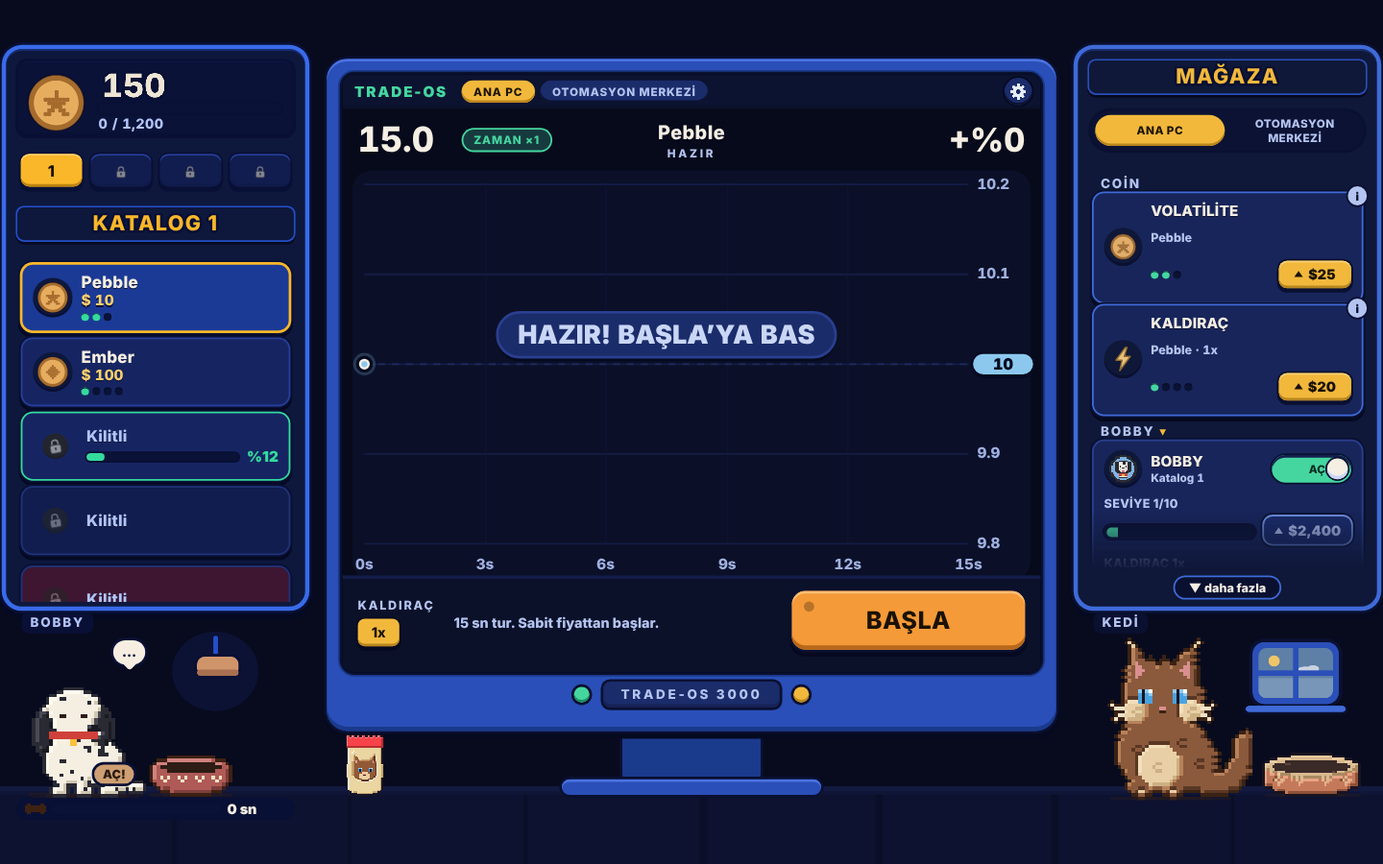
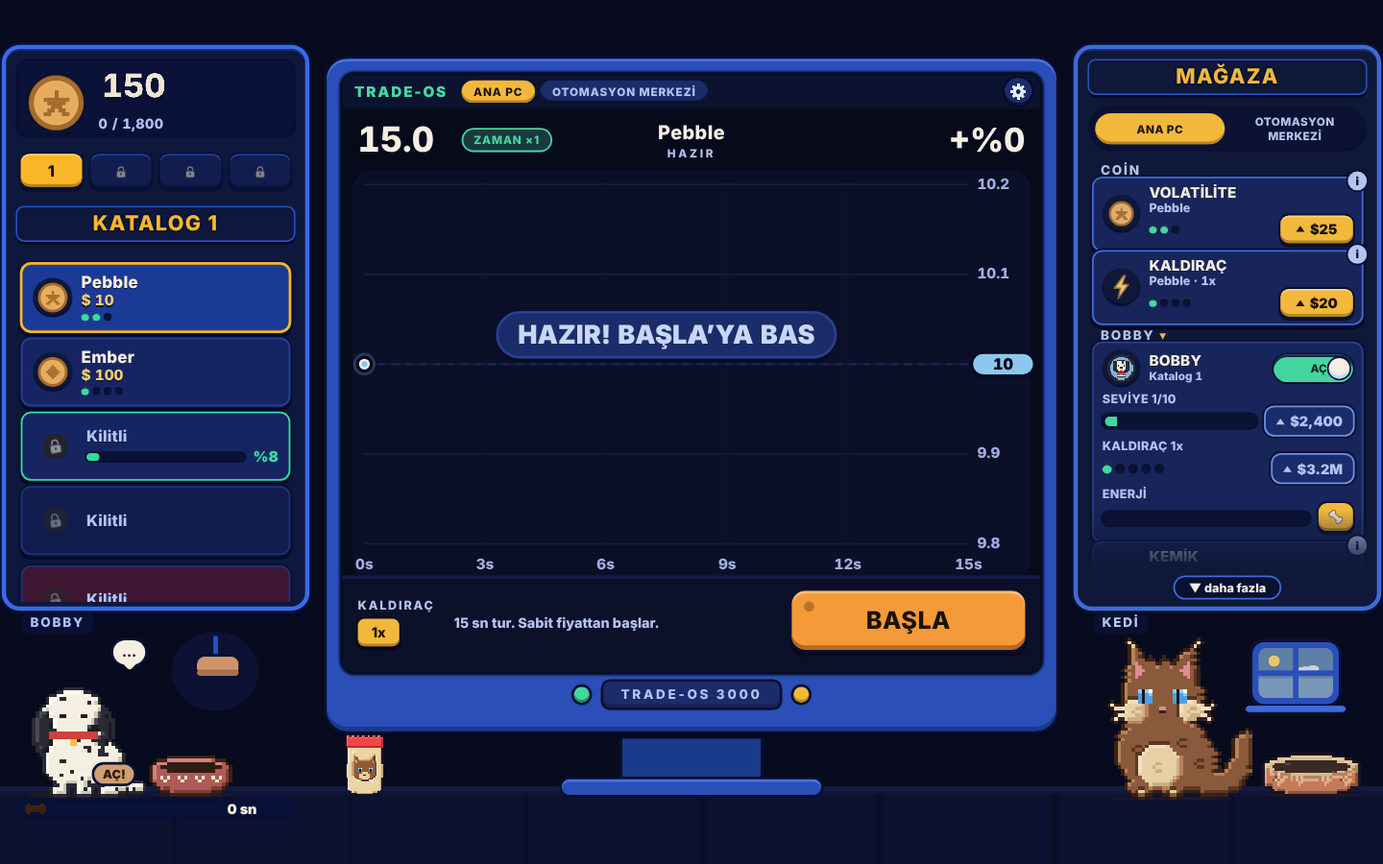
Adım 7: işlem raporu kartı, bitiş sahnesi ve ekranı, sıkı masaüstü mağaza, sabit robot grafikleri, ciddiyet 7→6; ekonomi: robot ekleme fiyatları +%8 zincir, coin açılma eşiği %50 yüksek — smoke 63/63
Claude-Session: https://claude.ai/code/session_01VDVDeJVYoXzWZHeVKGLAfX

Changed region(s): [[0.7812, 0.1244, 1.0, 0.6533]]

diff --git a/index.html b/index.html
@@ -1220,6 +1220,72 @@ html,body{background:var(--k-wall)!important}
 .mbtn.sm{background:#1B2C6B!important}.mtitle{color:#F2B83C!important}
 #scene .mp,.mp{background:#0F1838!important}
 #scene .mh,.mh{color:#F2B83C!important}
+
+/* ---------- TUR 2 / ADIM 7: masaüstü mağaza dikeyde sıkı (telefon aynen) ---------- */
+#stage:not(.tel) #shop{gap:6px!important;padding:4px 12px 64px!important}
+#stage:not(.tel) .shd,#stage:not(.tel) #right .shd{margin:6px 4px 0!important;line-height:1.1!important}
+#stage:not(.tel) #right .shd:first-child{margin-top:2px!important}
+#stage:not(.tel) .sc,#stage:not(.tel) .rc{padding:7px 10px 8px!important;margin-bottom:2px!important}
+#stage:not(.tel) #right .sc:not(.bob):not(.rcoin){row-gap:0!important}
+#stage:not(.tel) #right .sc:not(.bob):not(.rcoin) .sm .sg{margin-top:1px!important}
+#stage:not(.tel) #right .sc:not(.bob):not(.rcoin) .sb{margin-top:0!important}
+#stage:not(.tel) #right .go{margin:0!important}
+#stage:not(.tel) .sm b,#stage:not(.tel) #right .sm b{line-height:1.15!important}#stage:not(.tel) .sm .st{line-height:1.2!important}
+#stage:not(.tel) .sc.bob{gap:5px!important;padding:7px 10px 8px!important}
+#stage:not(.tel) .br,#stage:not(.tel) #right .sc.bob .br{min-height:0!important;row-gap:3px!important}
+#stage:not(.tel) .rc{margin:4px 0 6px!important}
+#stage:not(.tel) #stabs{margin:2px 12px 0!important}
+
+/* ---------- TUR 2 / ADIM 7: işlem raporu kartı, bitiş ekranı, ciddiyet 7→6 (çok az) ---------- */
+/* tur sonu: işlem raporu (kobalt çerçeve, lacivert, altın başlık, tabular rakam, nane ▲ / kehribar ▼) */
+#receipt{background:#0F1838!important;color:#F4EEE3!important;font-family:var(--k-fr)!important;font-weight:700!important;border-radius:12px!important;padding:10px 14px 12px!important;
+ -webkit-mask-image:none!important;mask-image:none!important;box-shadow:0 0 0 3px #3F6BD8,0 0 0 5px #0A1030,0 4px 0 5px #060A20!important;font-variant-numeric:tabular-nums}
+#receipt h3,#receipt h3.up,#receipt h3.dn{font-family:var(--k-fr)!important;font-weight:800!important;color:#F2B83C!important;letter-spacing:2px!important;text-align:left!important;border-bottom:1px dashed #2A3F8F!important;padding-bottom:4px;
+ text-shadow:0 2px 0 #0A1030!important}
+#receipt .rw{border-top:1px dashed #22336E!important;color:#F4EEE3!important}#receipt .rw>span:first-child{color:#B4C4F0}
+#receipt .strip{border-top:1px dashed #22336E!important;color:#B4C4F0!important}
+#receipt .up,#receipt .rw span.up{color:#5CE0B0!important}#receipt .dn,#receipt .rw span.dn{color:#E8A760!important}
+/* bitiş ekranı: tema dilinde kart */
+#endblack{background:#05081A!important}
+#endt{width:min(760px,92vw)!important;padding:26px 30px 28px;border-radius:16px;background:#0F1838;box-shadow:0 0 0 5px #3F6BD8,0 0 0 8px #0A1030,0 8px 0 8px #060A20}
+#endt h1{font:800 40px/1.15 var(--k-fr)!important;color:#F2B83C!important;text-shadow:0 3px 0 #0A1030,2px 0 0 #0A1030,-2px 0 0 #0A1030,0 -2px 0 #0A1030!important;margin:0 0 12px!important}
+#endt p{font:700 19px/1.4 var(--k-fr)!important;color:#B4C4F0!important;margin:0 0 16px!important}
+#endstats{display:grid;grid-template-columns:1fr 1fr;gap:8px;margin:0 0 14px;text-align:left}
+#endstats .es{display:flex;justify-content:space-between;align-items:center;gap:10px;padding:8px 12px;border-radius:10px;background:#18255A;box-shadow:0 0 0 2px #2A3F8F;font-variant-numeric:tabular-nums}
+#endstats .es span{font:700 15px var(--k-fr);color:#B4C4F0}#endstats .es b{font:800 18px var(--k-fr);color:#F4EEE3;white-space:nowrap}
+#endstats .es:last-child:nth-child(odd){grid-column:1/-1}
+#endt small{font:700 15px var(--k-fr)!important;color:#9FB0E0!important;margin:0 0 16px!important}
+#endt .pbtn,#again{border-radius:14px!important;background:#F59A38!important;color:#1A1204!important;text-shadow:none!important;font:800 24px var(--k-fr)!important;padding:12px 30px!important;
+ box-shadow:0 0 0 3px #0A1030,0 5px 0 3px #060A20,inset 0 3px 0 #F8BD75,inset 0 -5px 0 #B8681A!important}
+html.rot #endt{width:min(760px,92vh)!important}
+/* ciddiyet 7→6 (fark zor edilsin): başlık konturu 3→2 px, alt basamak 1 px az, birkaç köşe 2 px küçük, ikincil yazı 700 */
+#stage:not(.k6) .sign,#stage:not(.k6) #sign,#stage:not(.k6) #msign,#stage:not(.k6) #robsec .rsign{text-shadow:0 2px 0 #0A1030,2px 0 0 #0A1030,-2px 0 0 #0A1030,0 -2px 0 #0A1030!important}
+#stage:not(.tel) .tk,#stage:not(.tel) .sc,#stage:not(.tel) .rc{border-radius:10px!important}
+#stage:not(.tel) #left::before,#stage:not(.tel) #right::before{border-radius:16px!important}
+#stage:not(.k6) .tk,#stage:not(.k6) .sc,#stage:not(.k6) .rc{box-shadow:0 0 0 2px #2A3F8F,0 0 0 4px #0A1030,0 3px 0 4px #060A20!important}
+#stage:not(.k6) .tk.on,#stage:not(.k6) .tk.boss.on{box-shadow:0 0 0 3px #F2B83C,0 0 0 5px #0A1030,0 3px 0 5px #060A20!important}
+#stage:not(.k6) .tk.lk,#stage:not(.k6) .sc.lk{box-shadow:0 0 0 2px #22336E,0 0 0 4px #0A1030,0 3px 0 4px #060A20!important}
+#stage:not(.k6) .tk.lk.nx{box-shadow:0 0 0 2px #45D6A0,0 0 0 4px #0A1030,0 3px 0 4px #060A20!important}
+#stage:not(.k6) .sc.can{box-shadow:0 0 0 2px #3F6BD8,0 0 0 4px #0A1030,0 3px 0 4px #060A20!important}
+#stage:not(.tel) :is(.tn .num,.sm .st,#cnx,.br small,#lcdS,#hPs,#note,.shd){font-weight:700!important}
+
+/* ---- Ortak tavsiye 7 ---- */
+#receipt h3.dn{color:#F4EEE3!important}
+#receipt .rnet{font:800 32px/1.15 var(--k-fr);font-variant-numeric:tabular-nums;margin:2px 0 4px;text-shadow:0 2px 0 #0A1030}
+#receipt .rnet.up{color:#5CE0B0}#receipt .rnet.dn{color:#E8A760;font-size:26px}
+#stage:not(.tel) #receipt h3{font-size:24px!important}#stage:not(.tel) #receipt{font-size:16px!important}#stage:not(.tel) #receipt .strip{font-size:14px!important}
+#stage:not(.tel) #rcpt{height:280px!important}#stage.tel #rcpt{height:440px!important}#stage.tel #receipt .rnet{font-size:44px}
+#receipt.out{animation:k7in .4s ease-out forwards!important}#receipt:not(.out){animation:none!important}
+@keyframes k7in{from{transform:translateY(14px);opacity:0}to{transform:translateX(4px);opacity:1}}
+body.rm #receipt.out{animation:none!important;transform:translateX(4px)!important}
+#fl2.on{animation:none!important;opacity:0!important}
+/* bitiş: %85 örtü, 600 ms yumuşak belirme, tek altın düğme */
+#endblack{background:#080B1E!important}#endblack.on{opacity:.85!important}
+#endt{transition:opacity .6s ease-out!important}
+#endstats .es b{font-size:24px!important}#endstats .es span{font-size:16px!important}
+#endtime{display:none!important}
+#endstats .es b.up{color:#5CE0B0}#endstats .es b.dn{color:#E8A760}
+#endt .pbtn,#again{background:#F2B83C!important;color:#1A1204!important;min-height:52px;box-shadow:0 0 0 3px #0A1030,0 4px 0 3px #060A20,inset 0 3px 0 #F8D27A,inset 0 -4px 0 #B8861F!important}
 </style><style>/* === TELEFON: hep yatay oyun (dikeyde 90° döndürülür), sayfa kaymaz, çift dokunuşta büyümez === */
 html,body{position:fixed;inset:0;width:100%;height:100%;overflow:hidden;margin:0;overscroll-behavior:none;-webkit-user-select:none;user-select:none;-webkit-touch-callout:none;-webkit-tap-highlight-color:transparent;-webkit-text-size-adjust:100%}
 *{touch-action:manipulation}canvas,img{-webkit-user-drag:none}#list,#shop,.modal .mp,#mb{touch-action:pan-x pan-y;-webkit-overflow-scrolling:touch}
@@ -1254,7 +1320,7 @@ html.rot #mwood{width:min(55vh,880px)}html.rot #endt{width:min(900px,92vh)}html.
   <div id="catp" class="botp"><canvas class="wall" id="wallR"></canvas><div class="shelf"></div><span class="cap">KEDİ</span><div id="catw" class="obj2"><canvas id="catc"></canvas></div><div id="bowl"><canvas id="bowlc"></canvas></div><canvas id="pour"></canvas><div id="dbar" class="sg hp"></div><div id="purr"></div></div>
  </aside>
 </div>
-<div class="end" id="end"><canvas id="fx"></canvas><div id="endblack"></div><div id="endt"><h1>Tebrikler!<br>Bütün sokak hayvanlarını besledin!</h1><p id="endmsg"></p><small id="endtime"></small><button class="pbtn ac" id="again">Yeniden Oyna</button></div></div>
+<div class="end" id="end"><canvas id="fx"></canvas><div id="endblack"></div><div id="endt"><h1>Tebrikler!<br>Bütün sokak hayvanlarını besledin!</h1><p id="endmsg"></p><div id="endstats"></div><small id="endtime"></small><button class="pbtn ac" id="again">Yeniden Oyna</button></div></div>
 <div id="menu" class="on"><div id="mlogo"></div><div id="mwood"><div id="mpanel"></div></div><div id="mver">v1.0</div></div>
 <div id="sil"><canvas id="silc"></canvas><div class="sb"><b></b><small></small><i></i></div></div>
 <div id="pop"><div class="pin"><svg class="p20" viewBox="-100 -100 200 200" shape-rendering="crispEdges"></svg><img class="pic" alt=""><div class="pt"></div></div></div>
@@ -1366,7 +1432,7 @@ RC.push(Array.from({length:n},(_,i)=>4n*(i===n-1?COINS[19].p0*BigInt(Math.pow(2,
 const rlcost=(k,rk)=>(k===0?2n:1n)*(k===0&&rk===4?P('15M'):COINS[k*5+4].p0*BigInt(Math.pow(2,rk)*2)*2n*(k===2?8n:k===3?2n:1n));   /* v49: kat.1 Bobby kaldıraç x2 */
 /* v14 ürünleri: Bilgisayar Sv.2 (2. katalog ortası), Süper PC (3. katalog başı), robotlar */
 const PC2P=RMP(P('1.5M')),SPCP=P('500B');   /* Otomasyon (Sv.3) = 2. katalog boss fiyatı: boss'a başlarken alınabilir */
-const RMAX=4,RSLOT=[COINS[10].p,COINS[14].p,COINS[15].p,COINS[16].p].map(v=>v*6n),RACCC=(()=>{const F0=COINS[19].p*1600n*16n,a=Number(COINS[10].p)*5,z=Number(F0)/3,r=Math.pow(z/a,1/8);return Array.from({length:9},(_,k)=>(k===8?F0/3n:sig2(BigInt(Math.round(a*Math.pow(r,k)))))*4n)})(),RLEVC=[80n,40n,20n,10n,5n].map(d=>COINS[19].p*1600n*16n/d*4n),RBS=1,RD=.37,RF=.45;   /* v35 simülasyonla: robot 4 = 2Qi; doğruluk x6/seviye; kaldıraç 2x,4x,8x,16x fiyatı her seviyede 2 kat */
+const RMAX=4,RSLOT=(()=>{let r=COINS[10].p*6n;const a=[r];for(let i=1;i<4;i++){r=r*108n/100n;a.push(sig2(r))}return a})(),RACCC=(()=>{const F0=COINS[19].p*1600n*16n,a=Number(COINS[10].p)*5,z=Number(F0)/3,r=Math.pow(z/a,1/8);return Array.from({length:9},(_,k)=>(k===8?F0/3n:sig2(BigInt(Math.round(a*Math.pow(r,k)))))*4n)})(),RLEVC=[80n,40n,20n,10n,5n].map(d=>COINS[19].p*1600n*16n/d*4n),RBS=1,RD=.37,RF=.45;   /* v35 simülasyonla: robot 4 = 2Qi; doğruluk x6/seviye; kaldıraç 2x,4x,8x,16x fiyatı her seviyede 2 kat */
 /* robot zamanlaması: doğruluk Lv1 → Lv20 arasında gecikme %30 → %10, yakalanan düşüş oranı %55 → %90 */
 const rD=a=>.30-.20*(a-1)/9,rF=a=>.55+.35*(a-1)/9;
 const RERR=[54,52,51,48,43.5,40,34.5,30,27,22];const raErr=a=>RERR[Math.max(1,Math.min(10,a))-1];   /* v42: 10 seviye sapma tablosu */
@@ -1497,7 +1563,7 @@ function bottleCanvas(sc){const g=new Grid(14,30);g.rect(3,9,8,19,'b');g.rect(5,
 function bowlCanvas(wl,sc){const g=new Grid(32,16);g.ell(16,9,14,6,'c');g.rect(2,7,28,5,'c');g.ell(16,6,13,3.5,'k');if(wl>0)g.ell(16,6+(1-wl)*2,12*(.55+.45*wl),Math.max(1,3.3*wl),'b');g.rect(8,13,16,2,'c');return render(g,sc,{shadow:{x:16,y:14,rx:14,ry:1}})}
 function boneBowlCanvas(sc){const g=new Grid(22,14);g.ell(11,9,9,4,'c');g.rect(2,7,18,4,'c');g.ell(11,6,8,2.2,'k');g.from(["ww....ww",".wwwwww."],7,2);g.from(["ww....ww","wwwwwwww","ww....ww"],5,4);return render(g,sc,{shadow:{x:11,y:13,rx:9,ry:1}})}
 function foodCanvas(sc){const g=new Grid(18,20);g.rect(2,3,14,15,'c');g.rect(2,7,14,5,'g');g.rect(1,2,16,3,'s');g.rect(1,17,16,2,'s');g.from(["r.r","rrr",".r."],7,8);return render(g,sc,{shadow:{x:9,y:19,rx:8,ry:1}})}
-function heartCanvas(sc){const g=new Grid(10,9);g.from([".rr..rr.","rrrrrrrr","rrrrrrrr",".rrrrrr.","..rrrr..","...rr..."],1,1);return render(g,sc)}
+function heartCanvas(sc){const c=document.createElement('canvas'),k=Math.max(1,sc);c.width=6*k;c.height=5*k;const x=c.getContext('2d');[['#C47A5A',0,2],['#E8A486',2,0],['#8E5238',3,3],['#C47A5A',4,1]].forEach(([f,a,b])=>{x.fillStyle=f;x.fillRect(a*k,b*k,2*k,2*k)});return c}   /* Tur 2/Adım 7: kalp yok — yerken sıçrayan mama kırıntısı */
 function domeCanvas(m,sc){const g=new Grid(40,24);g.ell(20,14,15,11,m);g.rect(0,14,40,10,null);g.px(13,6,'#F4EBDD');g.px(14,5,'#F4EBDD');g.px(15,5,'#F4EBDD');return render(g,sc)}
 function baseCanvas(sc){const g=new Grid(40,12);g.rect(1,2,38,8,'s');g.px(4,5,'#F4EBDD');g.px(35,5,'#F4EBDD');g.rect(6,4,28,1,'#2B3A55');return render(g,sc,{shadow:{x:20,y:11,rx:18,ry:1}})}
 function printerCanvas(sc){const g=new Grid(50,16);g.rect(1,2,48,12,'s');g.rect(6,4,38,2,'k');g.px(44,9,'e');g.px(45,9,'e');g.px(4,9,'#F4EBDD');g.px(5,9,'#F4EBDD');return render(g,sc,{shadow:{x:25,y:15,rx:23,ry:1}})}
@@ -1736,7 +1802,7 @@ const afford=v=>S.cash>=v,pctOf=v=>v>0n?Math.min(100,Number(S.cash*100n/v)):100;
 function logU(x,cost){S.hist.unshift({k:'u',x,cost});if(S.hist.length>60)S.hist.pop()}
 function pay(v,txt){if(S.cash<v)return false;S.cash-=v;S.lc-=v;if(txt)logU(txt,v);return true}
 /* v28: katalog geçiş eşikleri (x100): bir coin, toplam kazanç >= eşik x fiyat olunca açılır */
-const UNLK=[100n,250n,220n,600n];   /* v49: coin, fiyatının %150'si kadar NET kâr edilince açılır */   /* kalibre: her katalog ~33 dk */
+const UNLK=[150n,375n,330n,900n];   /* v49: coin, fiyatının %150'si kadar NET kâr edilince açılır */   /* kullanıcı kararı 2026-11-18: eşikler eskisinin %150'si (eski 100/250/220/600) */
 const FRV=51800n;   /* final kartı toplam kazanç >= 518 x final fiyatı olunca görünür (x100) */
 function checkOpen(){syncTot();let ch=0;COINS.forEach(c=>{if(!S.open[c.i]&&S.tot*100n>=c.p*UNLK[c.cat]){spotCoin(c.i);S.open[c.i]=1;ch=1;S.hist.unshift({k:'u',x:c.n+' coini açıldı',cost:0n});const nc=!S.co[c.cat];
  if(nc){S.co[c.cat]=1;G.unl=c.cat;setTimeout(()=>{G.unl=-1;SD='';renderSide()},1500)}
@@ -1930,7 +1996,13 @@ function finishDrink(){const d=G.drink;if(!d)return;G.drink=null;cancelAnimation
 /* ---------- FİNAL SAHNESİ: çuval boşalır, mama yayılır, hayvanlar gelir, bilgisayar düşer, tebrik ---------- */
 const FX={raf:0,done:false};
 function endGame(){if(S.over)return;S.over=1;S.food=0;clearTimeout(G.tm);clearTimeout(G.at);cancelAnimationFrame(G.raf);if(G.drink)cancelDrink();G.st='over';save();playFinal(false);ui()}
-function finalText(){$('#endmsg').textContent=FINALMSG;const m=Math.round((S.ptm||0)/60000);$('#endtime').textContent=m>=1?'Toplam oyun süresi: '+(m>=60?Math.floor(m/60)+' sa '+(m%60)+' dk':m+' dk'):''}
+function finalText(){$('#endmsg').textContent=FINALMSG;const m=Math.round((S.ptm||0)/60000);$('#endtime').textContent=m>=1?'Toplam oyun süresi: '+(m>=60?Math.floor(m/60)+' sa '+(m%60)+' dk':m+' dk'):'';
+ /* Tur 2/Adım 7: bitiş istatistikleri — yalnız kayıtta zaten olan veriler (yeni alan yok) */
+ let best=null;(S.hist||[]).forEach(h=>{if(h&&h.k==='t'&&typeof h.pl==='bigint'&&(!best||h.pl>best.pl))best=h});
+ const tr=(S.hist||[]).filter(h=>h&&h.k==='t'&&typeof h.pl==='bigint'),sum=tr.reduce((a,h)=>a+h.pl,0n);
+ const rows=[['Oyun süresi',m>=60?Math.floor(m/60)+' sa '+(m%60)+' dk':Math.max(1,m)+' dk',''],['Son işlemler',String(tr.length),''],['Son işlemlerde kâr',(sum>=0n?'▲ +$':'▼ −$')+cp(sum<0n?-sum:sum),sum>=0n?'up':'dn'],['Açılan coin',S.open.filter(Boolean).length+'/'+COINS.length,'']];
+ if(best&&best.pl>0n)rows.push(['En iyi işlem',best.c+' · +$'+cp(best.pl)+(best.b?' ('+pcs(Number(best.pl)/Number(best.b))+')':''),'up']);
+ const st=$('#endstats');if(st)st.innerHTML=rows.map(r=>`<div class="es"><span>${r[0]}</span><b class="${r[2]}">${r[1]}</b></div>`).join('')}
 function showEndText(instant){const b=$('#endblack'),t=$('#endt');finalText();b.style.transition=instant?'none':'';t.style.transition=instant?'none':'';b.classList.add('on');t.classList.add('on');FX.done=true;if(!S.done){S.done=1;save()}}
 function clearFx(){cancelAnimationFrame(FX.raf);$('#scene').classList.remove('shake');const cv=$('#fx');cv.getContext('2d').clearRect(0,0,cv.width,cv.height)}
 /* =====================================================================
@@ -1980,6 +2052,7 @@ const end=$('#end'),cv=$('#fx'),x=cv.getContext('2d');clearFx();FX.done=false;FX
  const loop=now=>{FX.raf=requestAnimationFrame(loop);const dt=Math.min(.033,(now-last)/1000);last=now;simT+=dt;const ts=simT,T0=simT*1000;x.clearRect(0,0,W,H);   /* zaman = fizik zamanı (yavaş cihazda da oran korunur) */
   if(window.__finGo)dep=Math.max(dep,GOAL*TOTC);   /* test kısayolu */
   window.__fin={dep,TOTC,ts};
+  {const mid=(c0+c1)>>1,fl=over?1:Math.max(0,Math.min(1,(inner-hm[mid])/Math.max(1,inner-fillY)));setBowl(fl)}   /* kap gerçekten dolar */
   if(!doneT){
    /* çuval: taşmaya kadar kabın üstünde sabit; taşınca doğrudan imleç konumunda */
    if(over&&(PX||PY)){sack.x=PX;sack.y=PY}
@@ -1996,25 +2069,25 @@ const end=$('#end'),cv=$('#fx'),x=cv.getContext('2d');clearFx();FX.done=false;FX
   /* taşma başlar başlamaz Bobby gelir, taşan mamayı yer */
   if(over&&!bob){const D=dogCanvas2({},FK(4)),dc=$('#dogc'),home=S.rob&&dc&&dc.style.display!=='none'&&dc.offsetParent;const sx=home?dc.getBoundingClientRect().left:-D.width;dc.style.visibility='hidden';bob={x:sx,tx:Math.max(40,CAT.x-D.width-40),v:200,eatT:0,w:D.width}}
   if(bob){const dx=bob.tx-bob.x;if(Math.abs(dx)>4){bob.x+=Math.sign(dx)*bob.v*dt;bob.e=false}else{bob.e=true;if(Math.random()<dt*.3)bob.tx=Math.max(30,Math.min(CAT.x-bob.w-20,CAT.x-bob.w-60+(Math.random()-.5)*260))}   /* Bobby kedinin solunda kalır */
-   const fr=bob.e?Math.floor(now/300)%2:0,im=dogCanvas2(bob.e?{head:'eat',tail:Math.floor(now/200)%3}:{tail:Math.floor(now/150)%3},FK(4));x.drawImage(im,Math.round(bob.x),Math.round(walkY(bob.x+im.width/2,FK(4),im.height)));
+   const fr=bob.e&&!S.set.rm?Math.floor(now/650)%2:0,im=dogCanvas2(bob.e?{head:'eat',tail:Math.floor(now/200)%3}:{tail:Math.floor(now/150)%3},FK(4));x.drawImage(im,Math.round(bob.x),Math.round(walkY(bob.x+im.width/2,FK(4),im.height)));
    if(bob.e&&Math.random()<dt*.6)HT.push({x:bob.x+im.width/2,y:walkY(bob.x+im.width/2,FK(4),im.height)-6,v:40,l:1})}
   /* bir süre sonra diğer hayvanlar */
   if(over&&now-overT>6000&&animals.length<34){sa+=dt*(.8+(now-overT-6000)/6000);while(sa>=1&&animals.length<34){sa--;const side=Math.random()<.5,sc=FK(2+Math.floor(Math.random()*2));animals.push({kind:Math.random()<.5?'dog':'cat',fur:Math.floor(Math.random()*6),sc,x:side?-120:W+120,tx:W*.05+Math.random()*W*.9,v:140+Math.random()*140,ph:Math.random()*9,fol:Math.random()<.4})}}
   for(const a2 of animals){if((a2.fol||Math.abs(a2.x-sack.x)<360)&&Math.random()<dt*.8)a2.tx=Math.max(W*.03,Math.min(W*.97,sack.x+(Math.random()<.5?-1:1)*(50+Math.random()*140)));   /* v42: bir kısmı ve yakındakiler döküm yerine gelir */
    const dx=a2.tx-a2.x;if(Math.abs(dx)>6){a2.x+=Math.sign(dx)*a2.v*dt;a2.dir=Math.sign(dx);a2.eat=false}else{a2.eat=true;if(Math.random()<dt*.15)a2.tx=Math.max(W*.04,Math.min(W*.96,a2.x+(Math.random()-.5)*240))}
-   const fr=a2.eat?Math.floor(now/260+a2.ph)%2:Math.floor(now/110+a2.ph)%2,im=spr(a2.kind,a2.fur,fr,a2.sc),sy=surfAt(a2.x)-18*a2.sc+8+(a2.eat&&fr?a2.sc:0),sw=im.width;
+   const fr=S.set.rm?0:a2.eat?Math.floor(now/650+a2.ph)%2:Math.floor(now/110+a2.ph)%2,im=spr(a2.kind,a2.fur,fr,a2.sc),sy=surfAt(a2.x)-18*a2.sc+8+(a2.eat&&fr?a2.sc:0),sw=im.width;
    if(a2.eat&&Math.random()<dt*.3)HT.push({x:a2.x,y:sy-6,v:40+Math.random()*30,l:1});
    x.save();if((a2.dir||1)<0){x.translate(a2.x+sw/2,0);x.scale(-1,1);x.drawImage(im,0,sy)}else x.drawImage(im,a2.x-sw/2,sy);x.restore()}
   for(const h of HT){h.y-=h.v*dt;h.l-=dt*.5;x.globalAlpha=Math.max(0,h.l);x.drawImage(HC,h.x|0,h.y|0)}x.globalAlpha=1;for(let i=HT.length-1;i>=0;i--)if(HT[i].l<=0)HT.splice(i,1);
   /* bizim kedi: panelindeki yerde ve boyutta (x4); mama yükseldikçe mamanın üstüne çıkar, mama gelince yer */
-  {const C0=catCanvas2({},FK(4)),cxm=CAT.x+C0.width/2,sf=surfAt(cxm),onF=sf<CAT.base-6,eat=onF&&!doneT,fr=Math.floor(now/320)%2;
+  {const C0=catCanvas2({},FK(4)),cxm=CAT.x+C0.width/2,sf=surfAt(cxm),onF=sf<CAT.base-6,eat=onF&&!doneT,fr=S.set.rm?0:Math.floor(now/650)%2;
    const ci=catCanvas2(eat?{eat:fr?2:1,tail:Math.floor(now/300)%4}:{tail:Math.floor(now/400)%4,eye:Math.floor(now/1700)%9===0?'c':''},FK(4));
    CAT.y=Math.round(Math.min(CAT.base,sf+10)-ci.height);x.drawImage(ci,Math.round(CAT.x),CAT.y);CAT.w=ci.width;CAT.h=ci.height;
    if(eat&&Math.random()<dt*.5)HT.push({x:cxm,y:CAT.y,v:40,l:1})}
   /* %40 doldu: döküm biter. Odak SİLUET şeklinde: konuşan hayvan ve balonu dışında her yer kararır.
      Önce kedi teşekkür eder, sonra sıra Bobby'ye geçer; sonra oyun biter. */
   if(doneT){end.style.cursor='';const t=(now-doneT),catTurn=t<4200||!bob;
-   const bubble=(msg,cx,topY)=>{x.font=FT+'px "Pixelify Sans", monospace';const pad=Math.round(FT*.65),tw=Math.ceil(x.measureText(msg).width),bw=tw+pad*2,bh=Math.round(FT*2.1),bx2=Math.round(Math.min(W-bw-10,Math.max(10,cx-bw/2))),by2=Math.max(8,topY-bh-22);return {msg,pad,bw,bh,bx:bx2,by:by2,ax:Math.round(cx)}};
+   const bubble=(msg,cx,topY)=>{x.font='700 '+FT+'px '+KF;const pad=Math.round(FT*.65),tw=Math.ceil(x.measureText(msg).width),bw=tw+pad*2,bh=Math.round(FT*2.1),bx2=Math.round(Math.min(W-bw-10,Math.max(10,cx-bw/2))),by2=Math.max(8,topY-bh-22);return {msg,pad,bw,bh,bx:bx2,by:by2,ax:Math.round(cx)}};
    let who,img,ix,iy,B;
    if(catTurn){img=catCanvas2({tail:Math.floor(now/400)%4,eye:Math.floor(now/1700)%9===0?'c':''},FK(4));ix=Math.round(CAT.x);iy=CAT.y;B=bubble(L('Teşekkürler! Bütün sokak hayvanlarını doyurdun.'),CAT.x+CAT.w/2,CAT.y)}
    else{img=dogCanvas2({tail:Math.floor(now/150)%3,tongue:Math.floor(now/500)%2},FK(4));ix=Math.round(bob.x);iy=Math.round(walkY(bob.x+img.width/2,FK(4),img.height));B=bubble(L('Hav hav! Karnımız tok, sağ ol!'),bob.x+img.width/2,iy)}
@@ -2022,8 +2095,9 @@ const end=$('#end'),cv=$('#fx'),x=cv.getContext('2d');clearFx();FX.done=false;FX
    if(!FX.ov){FX.ov=document.createElement('canvas')}const ov=FX.ov;if(ov.width!==W||ov.height!==H){ov.width=W;ov.height=H}const o=ov.getContext('2d');o.globalCompositeOperation='source-over';o.clearRect(0,0,W,H);o.fillStyle='rgba(10,8,16,'+k+')';o.fillRect(0,0,W,H);
    o.globalCompositeOperation='destination-out';o.imageSmoothingEnabled=false;o.drawImage(img,ix,iy);o.fillRect(B.bx-3,B.by-3,B.bw+6,B.bh+6);for(let q=0;q<5;q++)o.fillRect(B.ax-5+q,B.by+B.bh+q*3,10-2*q,3);o.globalCompositeOperation='source-over';
    x.drawImage(ov,0,0);x.drawImage(img,ix,iy);
-   x.fillStyle='#3a2214';x.fillRect(B.bx-3,B.by-3,B.bw+6,B.bh+6);x.fillStyle='#fff4dc';x.fillRect(B.bx,B.by,B.bw,B.bh);x.fillStyle='#3a2214';for(let q=0;q<5;q++)x.fillRect(B.ax-5+q,B.by+B.bh+q*3,10-2*q,3);x.fillStyle='#fff4dc';for(let q=0;q<4;q++)x.fillRect(B.ax-3+q,B.by+B.bh+q*3,6-2*q,3);
-   x.fillStyle='#3a2214';x.textBaseline='middle';x.fillText(B.msg,B.bx+B.pad,B.by+B.bh/2+1);
+   /* Tur 2/Adım 7: konuşma balonu tema dilinde (lacivert, kobalt kenar, krem yazı) */
+   rr(x,B.bx-3,B.by-3,B.bw+6,B.bh+6,12);x.fillStyle='#3F6BD8';x.fill();rr(x,B.bx,B.by,B.bw,B.bh,10);x.fillStyle='#0F1838';x.fill();x.fillStyle='#3F6BD8';x.beginPath();x.moveTo(B.ax-9,B.by+B.bh);x.lineTo(B.ax+9,B.by+B.bh);x.lineTo(B.ax,B.by+B.bh+14);x.fill();x.fillStyle='#0F1838';x.beginPath();x.moveTo(B.ax-5,B.by+B.bh-1);x.lineTo(B.ax+5,B.by+B.bh-1);x.lineTo(B.ax,B.by+B.bh+8);x.fill();
+   x.fillStyle='#F4EEE3';x.textBaseline='middle';x.fillText(B.msg,B.bx+B.pad,B.by+B.bh/2+1);
    if(t>(bob?8600:4400)&&!fade){fade=true;FX.pour=false;$('#mon').classList.add('fall');$('#endblack').classList.add('on')}
    if(t>(bob?10600:6400)&&!FX.done){$('#screen').classList.add('off');showEndText(false)}
    if(t>(bob?12100:7900))cancelAnimationFrame(FX.raf)}};
@@ -2036,7 +2110,7 @@ function resetAll(){$('#catw').style.visibility='';$('#dogc').style.visibility='
 /* ---------- tur sonu paneli (ekranın sağ kenarından kayar), coin parçacıkları, zarar flaşı ---------- */
 let RT=0;
 function showReceipt(c,ch,tot){const r=$('#receipt'),n=G.trades+G.bn,ps=x=>x>=0n?'up':'dn';
- r.innerHTML=`<h3 class="${ps(tot)}">${n?(tot>=0n?'KÂR!':'ZARAR'):'TUR BİTTİ'}</h3>
+ r.innerHTML=`<h3 class="${ps(tot)}">${n?(tot>=0n?'KÂR!':'ZARAR'):'TUR BİTTİ'}</h3>${n?`<div class="rnet ${ps(tot)}">${tot>=0n?'▲ +$':'▼ −$'}${cp(tot<0n?-tot:tot)}</div>`:''}
  <div class="rw"><span>Açılış</span><span>$${cp(c.p)}</span></div><div class="rw"><span>Son</span><span>$${cp(G.curU)}</span></div>
  <div class="rw"><span>Değişim</span><span class="${ch>=0?'up':'dn'}">${pcs(ch)}</span></div>
  <div class="strip"><span>Sen</span><span class="${ps(G.rp)}">${sg(G.rp)}</span><span>· Bobby</span><span class="${ps(G.bpl)}">${sg(G.bpl)}</span><span>· Nakit</span><span>$${cp(S.cash)}</span></div>`;
@@ -2117,6 +2191,7 @@ function buildGrid(){const g=$('#agrid');if(g.children.length===RMAX)return;g.in
 $('#agrid').addEventListener('click',e=>{const tl=e.target.closest('[data-tile]');if(!tl)return;const i=+tl.dataset.tile,n=S.rb.length;
  if(i===n){robAct('radd',tl);save();ui()}else if(i<n){const c=$('#rc'+i);if(c){const box=$('#shop'),r=c.getBoundingClientRect(),b=box.getBoundingClientRect();box.scrollTop+=(r.top-b.top)*box.offsetHeight/b.height-10;c.classList.remove('flash');void c.offsetWidth;c.classList.add('flash')}}});
 const RSPR={};const rSpr=(i,fr)=>RSPR[i+'_'+fr]||(RSPR[i+'_'+fr]=render(robotGrid(i,fr),1));
+const TY=[];
 function drawTile(i,now){const cv=$('#tc'+i);if(!cv)return;const tile=cv.parentNode,n=S.rb.length;tile.className='tile'+(i===n?' add':i>n?' lock':'');
  const d=window.devicePixelRatio||1,r=cv.getBoundingClientRect(),W=tile.offsetWidth||200,H=tile.offsetHeight||190,w=Math.max(8,Math.round(r.width*d)),hh=Math.max(8,Math.round(r.height*d));if(cv.width!==w||cv.height!==hh){cv.width=w;cv.height=hh}
  const x=cv.getContext('2d'),k=cv.width/W;x.setTransform(k,0,0,k,0,0);x.fillStyle='#0B1028';x.fillRect(0,0,W,H);x.textBaseline='middle';x.textAlign='center';
@@ -2126,10 +2201,12 @@ function drawTile(i,now){const cv=$('#tc'+i);if(!cv)return;const tile=cv.parentN
  x.fillStyle='#F4EEE3';x.font='900 '+F1+'px '+KF;x.fillText('ROBOT-'+(i+1),IS+8,TEL?18:12);x.fillStyle='#B4C4F0';x.font='800 '+F2+'px '+KF;x.fillText(TT(c.n)+' · '+2**(R.v-1)+'x',IS+8,TEL?48:27);
  const L=6,Rr=W-6,T=TEL?70:40,B=H-(TEL?42:26),PW=Rr-L,PH=B-T;x.strokeStyle='#141C45';x.lineWidth=1;x.beginPath();for(let j=0;j<=2;j++){const y=Math.round(T+PH*j/2)+.5;x.moveTo(L,y);x.lineTo(Rr,y)}x.stroke();
  if(!rt){x.fillStyle='#9FB0E0';x.font='900 '+(TEL?30:17)+'px '+KF;x.textAlign='center';x.fillText(TT(S.rbOn===0?'DURDURULDU':'YENİ TUR…'),W/2,(T+B)/2);x.textAlign='left';return}
- const t=Math.min(15,(now-rt.t0)/1000*rt.sp),N=Math.max(2,Math.round(PW*Math.max(t,.05)/15/1.5)),vs=[];let mn=1,mx=1;for(let j=0;j<=N;j++){const v=ratioAt(rt.K,t*j/N);vs.push(v);if(v<mn)mn=v;if(v>mx)mx=v}
- const rg=Math.max(mx-mn,.1),y0=mn-rg*.15,y1=mx+rg*.15,X=s=>L+PW*s/15,Y=v=>B-(v-y0)/(y1-y0)*PH,up=vs[vs.length-1]>=1,cc='#8CC8EE',cg='140,200,238';
+ /* Tur 2/Adım 7: sabit zaman ızgarası (noktalar yerinde kalır, yalnız uç ilerler) + yumuşatılmış ölçek (sıçrama yok) */
+ const t=Math.min(15,(now-rt.t0)/1000*rt.sp),dt=15/Math.max(8,Math.round(PW/3)),ts=[];for(let q=0;q*dt<t;q++)ts.push(q*dt);ts.push(t);const vs=ts.map(tt=>ratioAt(rt.K,tt));let mn=1,mx=1;vs.forEach(v=>{if(v<mn)mn=v;if(v>mx)mx=v});
+ const rg0=Math.max(mx-mn,.1),ty0=mn-rg0*.15,ty1=mx+rg0*.15,TYi=TY[i]&&TY[i].k===rt.t0?TY[i]:(TY[i]={k:rt.t0,y0:ty0,y1:ty1});TYi.y0+=(Math.min(ty0,TYi.y0+(ty0-TYi.y0)*.08)-TYi.y0);TYi.y1+=(Math.max(ty1,TYi.y1+(ty1-TYi.y1)*.08)-TYi.y1);
+ const y0=TYi.y0,y1=TYi.y1,X=s=>L+PW*s/15,Y=v=>B-(v-y0)/(y1-y0)*PH,up=vs[vs.length-1]>=1,cc='#8CC8EE',cg='140,200,238';
  x.setLineDash([3,4]);x.strokeStyle='#1F2A5E';x.beginPath();x.moveTo(L,Y(1));x.lineTo(Rr,Y(1));x.stroke();x.setLineDash([]);
- x.beginPath();vs.forEach((v,j)=>{const px=X(t*j/N),py=Y(v);j?x.lineTo(px,py):x.moveTo(px,py)});x.lineJoin='round';x.lineCap='round';x.strokeStyle='#060A20';x.lineWidth=6;x.stroke();x.strokeStyle=cc;x.lineWidth=3;x.stroke();
+ x.beginPath();vs.forEach((v,j)=>{const px=X(ts[j]),py=Y(v);j?x.lineTo(px,py):x.moveTo(px,py)});x.lineJoin='round';x.lineCap='round';x.strokeStyle='#060A20';x.lineWidth=6;x.stroke();x.strokeStyle=cc;x.lineWidth=3;x.stroke();
  for(const tr of rt.tl){x.fillStyle='#4FBFB2';const bx=X(tr.t0),by=Y(tr.bf/c.pf);x.beginPath();x.moveTo(bx,by+1);x.lineTo(bx+3,by+8);x.lineTo(bx-3,by+8);x.fill();if(!tr.open){const sx=X(tr.t1),sy=Y(tr.sf/c.pf);x.fillStyle=tr.pp>=0?'#5CE0B0':'#E8A760';x.beginPath();x.moveTo(sx,sy-1);x.lineTo(sx+3,sy-8);x.lineTo(sx-3,sy-8);x.fill();x.font='900 '+(TEL?30:20)+'px '+KF;x.textAlign='center';x.fillText(tr.liq?TT('LİK'):(tr.pp>=0?'▲ +%':'▼ -%')+Math.abs(tr.pp*100).toFixed(0),sx,Math.max(T+6,sy-14));x.textAlign='left'}}
  if(rt.miss&&!rt.tl.length&&S.cash<COINS[R.ci].p){x.fillStyle='#E8A760';x.font='900 '+(TEL?30:15)+'px '+KF;x.textAlign='center';x.fillText(TT('NAKİT YETERSİZ'),W/2,T+12);x.textAlign='left'}
  const ex=X(t),ey=Y(vs[vs.length-1]);x.fillStyle=`rgba(${cg},.45)`;x.beginPath();x.arc(ex,ey,6,0,7);x.fill();x.fillStyle='#F4EEE3';x.beginPath();x.arc(ex,ey,2.5,0,7);x.fill();
@@ -2346,9 +2423,9 @@ const I18N={en:{
  "Bobby'nin kemik süresini uzatır.":"Extends Bobby's bone time.",'Tur bitince yenisini kendisi başlatır.':'Starts a new round when one ends.','Oyunu hızlandırır; istediğin an kapatabilirsin.':'Speeds up the game; turn it off anytime.',
  'Robotların otomatik işlem yaptığı merkezi açar.':'Opens the center where robots trade automatically.','Daha büyük ekranlı yeni bilgisayar (görsel yükseltme).':'A new computer with a bigger screen (visual upgrade).','Final: kedinin kabına sürüklenince oyun biter.':"Final: the game ends when dragged to the cat's bowl.",
  'Otomatik işlem yapan yeni bir robot ekler.':'Adds a new robot that trades automatically.','Kedi maması: kaba sürükle, 4 sn tut, +$2.':'Cat food: drag to the bowl, hold 4 s, +$2.','Kemik ver: tıkla ya da kaba sürükle.':'Give bone: click or drag to the bowl.',
- 'Oyna':'Play','Boss coininde kaldıraç kullanılamaz':'Leverage is not available on the boss coin','AL ·':'BUY ·','SAT ·':'SELL ·',"10$ biriktirince Pebble ile ilk trade'ini yapabilirsin. Devam etmek için tıkla":'Save $10 and you can make your first trade with Pebble. Click to continue',"Pebble coinini almak için 10$'a ihtiyacın var. Beni beslemeye devam et, para biriktir! (Yatırım tavsiyesi değildir, miyav.) Devam etmek için tıkla":'You need $10 to buy the Pebble coin. Keep feeding me and save up! (Not investment advice, meow.) Click to continue','Yaşasın! Artık Pebble coinini alabilirsin.':'Yay! Now you can buy the Pebble coin.',"Ama dikkatli ol, coin piyasası biraz canlıdır! BAŞLA'ya bas; fiyat dipteyken AL, tepedeyken SAT. Devam etmek için tıkla":'But be careful, the coin market is a bit lively! Press START; BUY at the dip, SELL at the top. Click to continue','Merak etme, onu sakinleştirmenin bir yolu var… (Devam etmek için tıkla)':'Don\'t worry, there is a way to calm it down… (Click to continue)','İşte mağaza!':'Here is the shop!','VOLATİLİTE seviyesini artırdıkça grafikteki dönüm noktaları azalır, grafik sakinleşir ve doğru anı yakalamak kolaylaşır. KALDIRAÇ seviyesini artırınca kârın da zararın da kaldıraç katı kadar büyür. Devam etmek için tıkla':'Raising the VOLATILITY level reduces the turning points, so the chart calms down and timing gets easier. Raising LEVERAGE multiplies both profit and loss by the leverage. Click to continue','Seviye arttıkça dönüm noktası azalır, grafik sakinleşir.':'Higher level means fewer turning points, a calmer chart.','Kilitli':'Locked','Burası coin piyasası!':'This is the coin market!','Buradaki coinleri alıp satarak daha çok para kazanabilirsin. (Yatırım tavsiyesi değildir, miyav.) Devam etmek için tıkla':'Buy and sell coins here to grow your in-game cash. (Not investment advice, meow.) Click to continue','Grafik biraz agresif mi geldi?':'Was the chart a bit aggressive?','İşte mağaza! Buradan coinin volatilitesini ve kaldıracını artırabilirsin. Devam etmek için tıkla':'Here is the shop! You can raise the coin\'s volatility and leverage here. Click to continue','Paketi tutup kabımın üstüne sürükle, bırak ve biraz bekle. Her mamada para kazanırsın; 5$ kâr edince bilgisayar düzelir.':'Drag the bag over my bowl, drop it and wait a bit. You earn money each time; at $5 profit the computer gets fixed.','Mama paketini al ve kabıma dök!':'Grab the food bag and pour it into my bowl!','Paketi tutup kabımın üstüne sürükle, bırak ve biraz bekle. Her mamada para kazanırsın; 10$ biriktirince bilgisayarı onarabilirsin.':'Drag the bag over my bowl, drop it and wait a bit. You earn money each time; with $10 you can repair the computer.','BİLGİSAYARI ONAR':'REPAIR COMPUTER','Bozuk ekranı tamir et':'Fix the broken screen','Miyav… Çok açım!':'Meow… I am so hungry!','Karnım guruldiyor… Beni besler misin? (Devam etmek için herhangi bir yere tıkla)':'My tummy is rumbling… Will you feed me? (Click anywhere to continue)','Şu mama paketini al!':'Grab that food bag!','Paketi tut ve sürükle.':'Hold the bag and drag it.','…ve kabıma dök!':'…and pour it into my bowl!','Paketi kabımın üstüne bırak ve biraz bekle. Her mamada para kazanırsın; 10$ biriktirince bilgisayarı onarabilirsin.':'Drop the bag over my bowl and wait a bit. You earn money each time; with $10 you can repair the computer.','Miyav! Bilgisayar düzeldi.':'Meow! The computer is fixed.',"Artık trade yapabilirsin: fiyat dipteyken AL, tepedeyken SAT. Pebble'ı oynamak için 10$ gerekir. Devam etmek için tıkla":'Now you can trade: BUY at the dip, SELL at the top. You need $10 to play Pebble. Click to continue','Miyav! Bilgisayarı açtım.':'Meow! I turned on the computer.',"Pebble ile ilk trade'ini yap: fiyat dipteyken AL, tepedeyken SAT. Devam etmek için tıkla":'Make your first trade with Pebble: BUY at the dip, SELL at the top. Click to continue','Miyav… Karnım çok aç!':'Meow… I am so hungry!','Sol alttaki mama paketini kabıma sürükle. Her mamada kâr edersin; 15$ kâr edince bilgisayarı açarım. Devam etmek için tıkla':'Drag the food bag at the bottom left to my bowl. You profit each time; at $15 profit I will turn on the computer. Click to continue','ANA PC':'MAIN PC','Müzik':'Music','OTO-TUR AÇIK':'AUTO-ROUND ON','OTO-TUR KAPALI':'AUTO-ROUND OFF','DURDURULDU':'STOPPED','ROBOT COİNİ':'ROBOT COIN','Tüm robotlar bu coinde işlem yapar':'All robots trade this coin','Doyan hayvanlar':'Fed animals','Aç hayvanların üstüne mama dök! Basılı tut: daha bol döker.':'Pour food onto hungry animals! Hold to pour more.','Hav hav! Karnımız tok, sağ ol!':'Woof woof! Our bellies are full, thank you!','Teşekkürler! Bütün sokak hayvanlarını doyurdun.':'Thank you! You fed all the street animals.',"Bobby'yi beslemediğin için küstü ve gitti…":'Bobby got upset because you didn\'t feed him, and left…','Mağazadan yeniden sahiplenebilirsin. Devam etmek için tıkla':'You can adopt him again in the shop. Click to continue','OTOMASYON MERKEZİ':'AUTOMATION CENTER','Robot merkezi':'Robot center','Çıkış':'Quit Game','Geri':'Back','Görüşürüz!':'See you!','Menüye dön':'Back to menu','Ses':'Sound','Kedi Maması':'Cat Food','Sabit fiyattan başlar.':'Starts at a fixed price.','Ayarlar ve işlem geçmişi':'Settings and trade history',
+ 'Oyna':'Play','Son işlemler':'Recent trades','Son işlemlerde kâr':'Profit in recent trades','Oyun süresi':'Play time','Açılan coin':'Coins unlocked','En iyi işlem':'Best trade','Bakiye':'Balance','Boss coininde kaldıraç kullanılamaz':'Leverage is not available on the boss coin','AL ·':'BUY ·','SAT ·':'SELL ·',"10$ biriktirince Pebble ile ilk trade'ini yapabilirsin. Devam etmek için tıkla":'Save $10 and you can make your first trade with Pebble. Click to continue',"Pebble coinini almak için 10$'a ihtiyacın var. Beni beslemeye devam et, para biriktir! (Yatırım tavsiyesi değildir, miyav.) Devam etmek için tıkla":'You need $10 to buy the Pebble coin. Keep feeding me and save up! (Not investment advice, meow.) Click to continue','Yaşasın! Artık Pebble coinini alabilirsin.':'Yay! Now you can buy the Pebble coin.',"Ama dikkatli ol, coin piyasası biraz canlıdır! BAŞLA'ya bas; fiyat dipteyken AL, tepedeyken SAT. Devam etmek için tıkla":'But be careful, the coin market is a bit lively! Press START; BUY at the dip, SELL at the top. Click to continue','Merak etme, onu sakinleştirmenin bir yolu var… (Devam etmek için tıkla)':'Don\'t worry, there is a way to calm it down… (Click to continue)','İşte mağaza!':'Here is the shop!','VOLATİLİTE seviyesini artırdıkça grafikteki dönüm noktaları azalır, grafik sakinleşir ve doğru anı yakalamak kolaylaşır. KALDIRAÇ seviyesini artırınca kârın da zararın da kaldıraç katı kadar büyür. Devam etmek için tıkla':'Raising the VOLATILITY level reduces the turning points, so the chart calms down and timing gets easier. Raising LEVERAGE multiplies both profit and loss by the leverage. Click to continue','Seviye arttıkça dönüm noktası azalır, grafik sakinleşir.':'Higher level means fewer turning points, a calmer chart.','Kilitli':'Locked','Burası coin piyasası!':'This is the coin market!','Buradaki coinleri alıp satarak daha çok para kazanabilirsin. (Yatırım tavsiyesi değildir, miyav.) Devam etmek için tıkla':'Buy and sell coins here to grow your in-game cash. (Not investment advice, meow.) Click to continue','Grafik biraz agresif mi geldi?':'Was the chart a bit aggressive?','İşte mağaza! Buradan coinin volatilitesini ve kaldıracını artırabilirsin. Devam etmek için tıkla':'Here is the shop! You can raise the coin\'s volatility and leverage here. Click to continue','Paketi tutup kabımın üstüne sürükle, bırak ve biraz bekle. Her mamada para kazanırsın; 5$ kâr edince bilgisayar düzelir.':'Drag the bag over my bowl, drop it and wait a bit. You earn money each time; at $5 profit the computer gets fixed.','Mama paketini al ve kabıma dök!':'Grab the food bag and pour it into my bowl!','Paketi tutup kabımın üstüne sürükle, bırak ve biraz bekle. Her mamada para kazanırsın; 10$ biriktirince bilgisayarı onarabilirsin.':'Drag the bag over my bowl, drop it and wait a bit. You earn money each time; with $10 you can repair the computer.','BİLGİSAYARI ONAR':'REPAIR COMPUTER','Bozuk ekranı tamir et':'Fix the broken screen','Miyav… Çok açım!':'Meow… I am so hungry!','Karnım guruldiyor… Beni besler misin? (Devam etmek için herhangi bir yere tıkla)':'My tummy is rumbling… Will you feed me? (Click anywhere to continue)','Şu mama paketini al!':'Grab that food bag!','Paketi tut ve sürükle.':'Hold the bag and drag it.','…ve kabıma dök!':'…and pour it into my bowl!','Paketi kabımın üstüne bırak ve biraz bekle. Her mamada para kazanırsın; 10$ biriktirince bilgisayarı onarabilirsin.':'Drop the bag over my bowl and wait a bit. You earn money each time; with $10 you can repair the computer.','Miyav! Bilgisayar düzeldi.':'Meow! The computer is fixed.',"Artık trade yapabilirsin: fiyat dipteyken AL, tepedeyken SAT. Pebble'ı oynamak için 10$ gerekir. Devam etmek için tıkla":'Now you can trade: BUY at the dip, SELL at the top. You need $10 to play Pebble. Click to continue','Miyav! Bilgisayarı açtım.':'Meow! I turned on the computer.',"Pebble ile ilk trade'ini yap: fiyat dipteyken AL, tepedeyken SAT. Devam etmek için tıkla":'Make your first trade with Pebble: BUY at the dip, SELL at the top. Click to continue','Miyav… Karnım çok aç!':'Meow… I am so hungry!','Sol alttaki mama paketini kabıma sürükle. Her mamada kâr edersin; 15$ kâr edince bilgisayarı açarım. Devam etmek için tıkla':'Drag the food bag at the bottom left to my bowl. You profit each time; at $15 profit I will turn on the computer. Click to continue','ANA PC':'MAIN PC','Müzik':'Music','OTO-TUR AÇIK':'AUTO-ROUND ON','OTO-TUR KAPALI':'AUTO-ROUND OFF','DURDURULDU':'STOPPED','ROBOT COİNİ':'ROBOT COIN','Tüm robotlar bu coinde işlem yapar':'All robots trade this coin','Doyan hayvanlar':'Fed animals','Aç hayvanların üstüne mama dök! Basılı tut: daha bol döker.':'Pour food onto hungry animals! Hold to pour more.','Hav hav! Karnımız tok, sağ ol!':'Woof woof! Our bellies are full, thank you!','Teşekkürler! Bütün sokak hayvanlarını doyurdun.':'Thank you! You fed all the street animals.',"Bobby'yi beslemediğin için küstü ve gitti…":'Bobby got upset because you didn\'t feed him, and left…','Mağazadan yeniden sahiplenebilirsin. Devam etmek için tıkla':'You can adopt him again in the shop. Click to continue','OTOMASYON MERKEZİ':'AUTOMATION CENTER','Robot merkezi':'Robot center','Çıkış':'Quit Game','Geri':'Back','Görüşürüz!':'See you!','Menüye dön':'Back to menu','Ses':'Sound','Kedi Maması':'Cat Food','Sabit fiyattan başlar.':'Starts at a fixed price.','Ayarlar ve işlem geçmişi':'Settings and trade history',
  'Bilgisayar onarıldı · Pebble açıldı':'Computer repaired · Pebble unlocked','Bobby sahiplenildi':'Bobby adopted','Oto-Tur satın alındı':'Auto-Round bought','Bilgisayar Seviye 2':'Computer Level 2','Bilgisayar onarıldı':'Computer repaired','Kedi Maması (Final) satın alındı':'Cat Food (Final) bought','Otomasyon Merkezi':'Automation Center','Bobby Katalog':'Bobby Catalog','Kemik':'Bone','Kapasite':'Capacity','Robot':'Robot','ROBOT DEPOSU':'ROBOT DEPOT','Fiyat':'Price','Volatilite':'Volatility','dönüm noktası':'turning points','Sen ×':'You ×','Bobby ×':'Bobby ×','· Nakit':'· Cash','· Bobby':'· Bobby'},
- pat:[[/^KATALOG (\d+)$/,'CATALOG $1'],[/^Katalog (\d+)$/,'Catalog $1'],[/^SONRAKİ COİN %(\d+)$/,'NEXT COIN %$1'],[/^ZAMAN ×(\d+)$/,'TIME ×$1'],[/^SEVİYE (\d+)\/(\d+)$/,'LEVEL $1/$2'],[/^KALDIRAÇ (\d+)x$/,'LEVERAGE $1x'],
+ pat:[[/^(\d+) sa (\d+) dk$/,'$1 h $2 min'],[/^(\d+) dk$/,'$1 min'],[/^KATALOG (\d+)$/,'CATALOG $1'],[/^Katalog (\d+)$/,'Catalog $1'],[/^SONRAKİ COİN %(\d+)$/,'NEXT COIN %$1'],[/^ZAMAN ×(\d+)$/,'TIME ×$1'],[/^SEVİYE (\d+)\/(\d+)$/,'LEVEL $1/$2'],[/^KALDIRAÇ (\d+)x$/,'LEVERAGE $1x'],
   [/^(\d+) sn \/ kemik · Lv(\d+)$/,'$1 s / bone · Lv$2'],[/^([\d.]+) dk · Lv(\d+)$/,'$1 min · Lv$2'],[/^([\d.]+) sn$/,'$1 s'],[/^(\d+)x açık$/,'$1x on'],[/^(\d+)x kapalı$/,'$1x off'],[/^DOĞRULUK (\d+)\/(\d+)$/,'ACCURACY $1/$2'],[/^KALDIRAÇ (\d+)\/(\d+)$/,'LEVERAGE $1/$2'],
   [/^Robot (\d+)\/(\d+)$/,'Robot $1/$2'],[/^Kedi Maması · BOSS$/,'Cat Food · BOSS'],[/^Kedi Maması · (\d+)x$/,'Cat Food · $1x'],[/^Yeni coin: (.*)$/,'New coin: $1'],[/^Katalog (\d+) açıldı$/,'Catalog $1 unlocked'],[/^(.*) hazır$/,'$1 ready'],
   [/^Bobby kaldıracı (\d+)x$/,'Bobby leverage $1x'],[/^Kemik Seviyesi (\d+)$/,'Bone Level $1'],[/^Kapasite Seviyesi (\d+)$/,'Capacity Level $1'],[/^Zaman Kapsülü (\d+)x$/,'Time Capsule $1x'],[/^Oyun saati (\d+)x hızlı$/,'Game clock $1x faster'],

diff --git a/docs/tasarim/canli/tur-2.md b/docs/tasarim/canli/tur-2.md
@@ -400,3 +400,28 @@ A'nın üç ince ayarına katılıyorum: kontur 3→2 px, köşe 28→26, ikinci
 8. Bitiş ekranı: zemin #080B1E %85 örtü, kart #0F1838 + çerçeve #3F6BD8; 600 ms içinde yumuşak belirme (hareket azaltmada anında). Başlık altın #F2B83C en az 32 px.
 9. İçerik yalnız var olan veriden: toplam süre, işlem sayısı, toplam kâr (nane ▲), en iyi işlem (yüzdeyle). Her satır etiket #B4C4F0 en az 16 px + değer krem #F4EEE3 en az 24 px, tabular; yeni kayıt alanı yok.
 10. Tek altın düğme (dolgu #F2B83C, yazı #1A1204, 10.3:1, en az 48 px yükseklik) mevcut devam/yeni oyun işlevine bağlı; ekran zorla bekletmesin (düğme ilk andan aktif), aynı anda başka altın düğme yok.
+
+## Adım 7 — Tasarımcı: Notlar
+
+1. **Robot bölmeleri sabit:** Kayma DOM'dan değil, canvas çiziminden geliyordu. `drawTile` her karede örnek sayısını değiştirdiği için bütün çizgi noktaları yatayda kayıyordu; y ölçeği de her karede min/max'a sıçrıyordu. Artık sabit zaman ızgarası var (noktalar yerinde, yalnız uç ilerliyor). Ölçek ana grafik gibi yumuşak uyum sağlıyor ve her yeni turda sıfırlanıyor. Ekonomiye dokunulmadı.
+2. **Masaüstü mağaza dikeyde sıkı** (yalnız `#stage:not(.tel)`): kart arası boşluk 10 → 6 px, kart iç dolgusu 10/12 → 7/8 px, başlık–içerik aralığı 10 → 6 px, satır aralıkları sıkı. Telefon aynen.
+3. **İşlem raporu kartı** (termal fiş yerine):
+   - Lacivert #0F1838, kobalt #3F6BD8 çerçeve.
+   - Başlık "KÂR!" altın, "ZARAR" krem (24 px).
+   - Büyük net sonuç satırı: ▲ +$X nane 32 px / ▼ −$X kehribar 26 px; tabular rakamlar.
+   - Ara satırlar #B4C4F0, ince #22336E kesikli ayraç.
+   - Giriş 400 ms tek yumuşak yükselme; kapanışta animasyon yok; hareket azaltmada anında. Zarardaki ekran flaşı kapatıldı.
+   - Rapora "Yeniden dene" düğmesi eklenmedi (yeni etkileşim olurdu); alttaki "YENİ TUR" düğmesi aynı işi görüyor.
+4. **Ciddiyet 7 → 6 (fark zor):** Başlık konturu 3 → 2 px, kart alt basamağı 4 → 3 px, masaüstünde kart köşeleri 12 → 10 ve panel köşeleri 18 → 16, ikincil yazılar 800 → 700. Renk, boyut ve konum değişmedi.
+5. **Bitiş sahnesi:**
+   - Kedinin kabı döküm sırasında gerçekten doluyor, taşınca tam dolu duruyor.
+   - Kalp yok; yerken küçük mama kırıntısı sıçrıyor.
+   - Hayvanların yeme karesi 650 ms; hareket azaltmada sabit kare.
+   - Konuşma balonu tema dilinde (lacivert, kobalt kenar, krem yazı).
+6. **Bitiş ekranı:**
+   - %85 #080B1E örtü üstünde kobalt çerçeveli kart, 600 ms yumuşak belirme.
+   - Altın başlık.
+   - İstatistikler yalnız mevcut veriden (yeni kayıt alanı yok): oyun süresi (`S.ptm`), son işlemler, son işlemlerdeki kâr, açılan coin, en iyi işlem (yüzdeyle). İşlem sayısı ve kâr kaydın tuttuğu son ≤60 kayıttan hesaplanıyor; etiket bu yüzden "Son işlemler".
+   - Tek altın düğme: mevcut "Yeniden Oyna".
+   - Görüntü: `docs/tasarim/son/desk_tr_final.png`.
+   - Smoke 63/63, konsol temiz.
